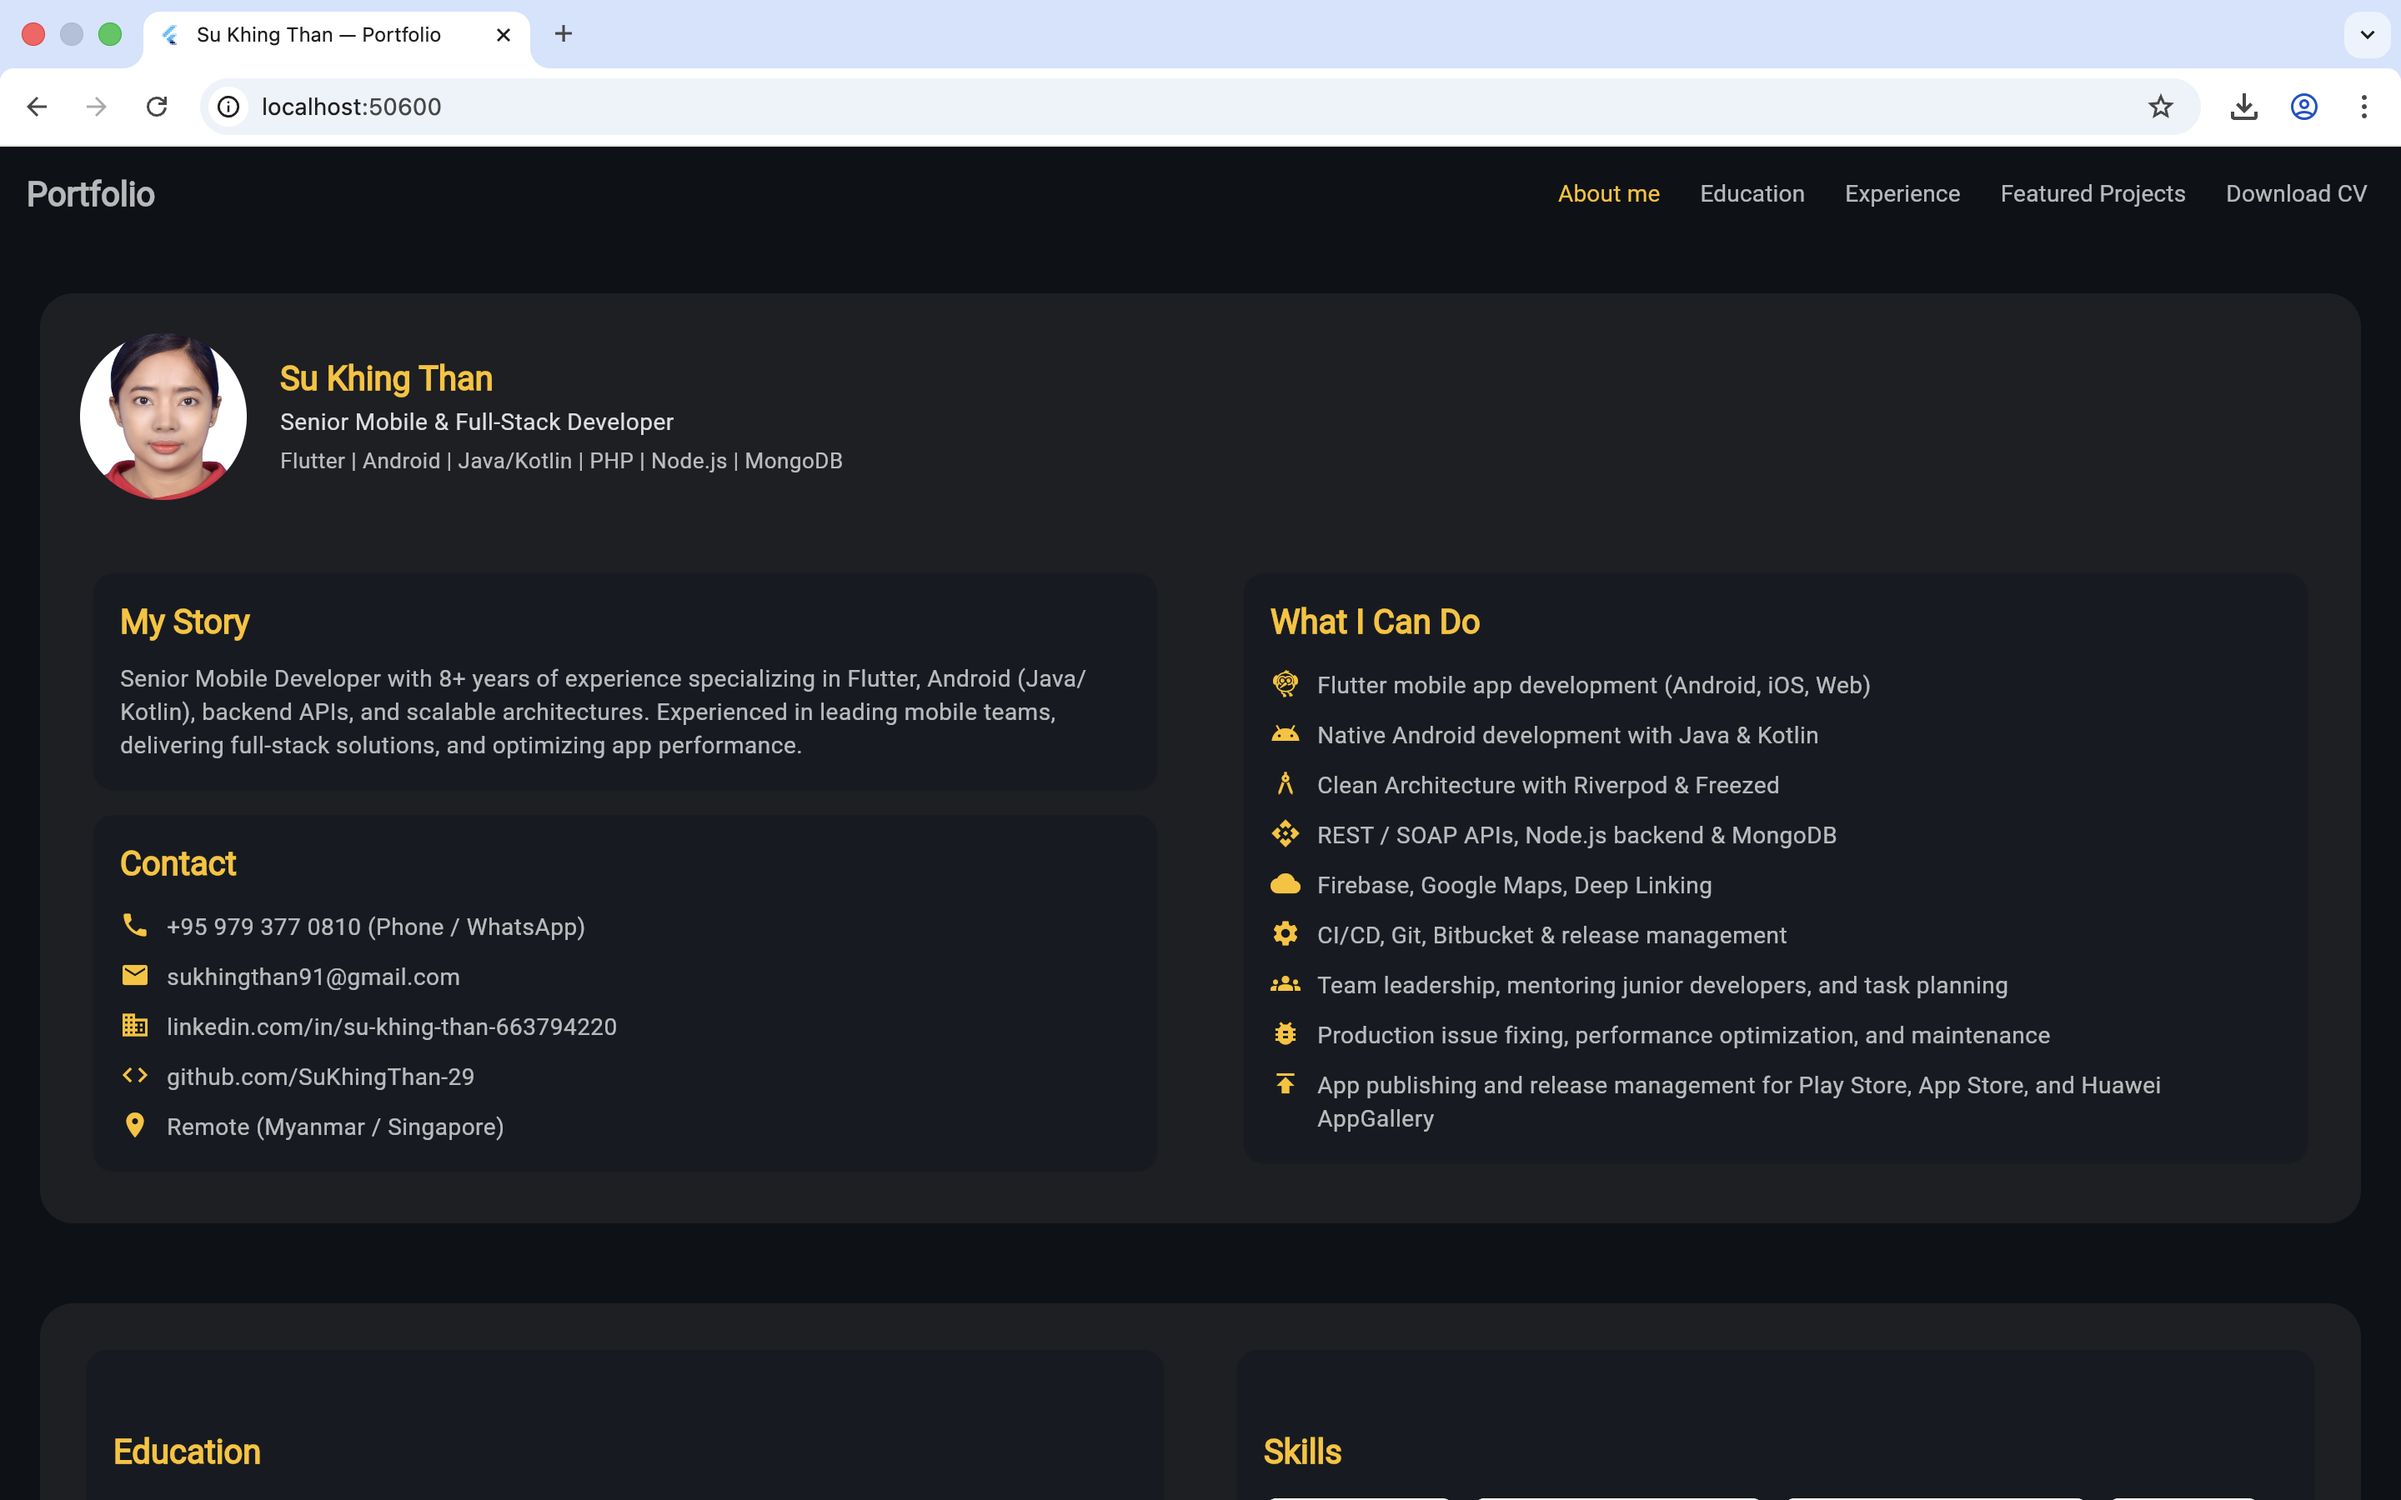
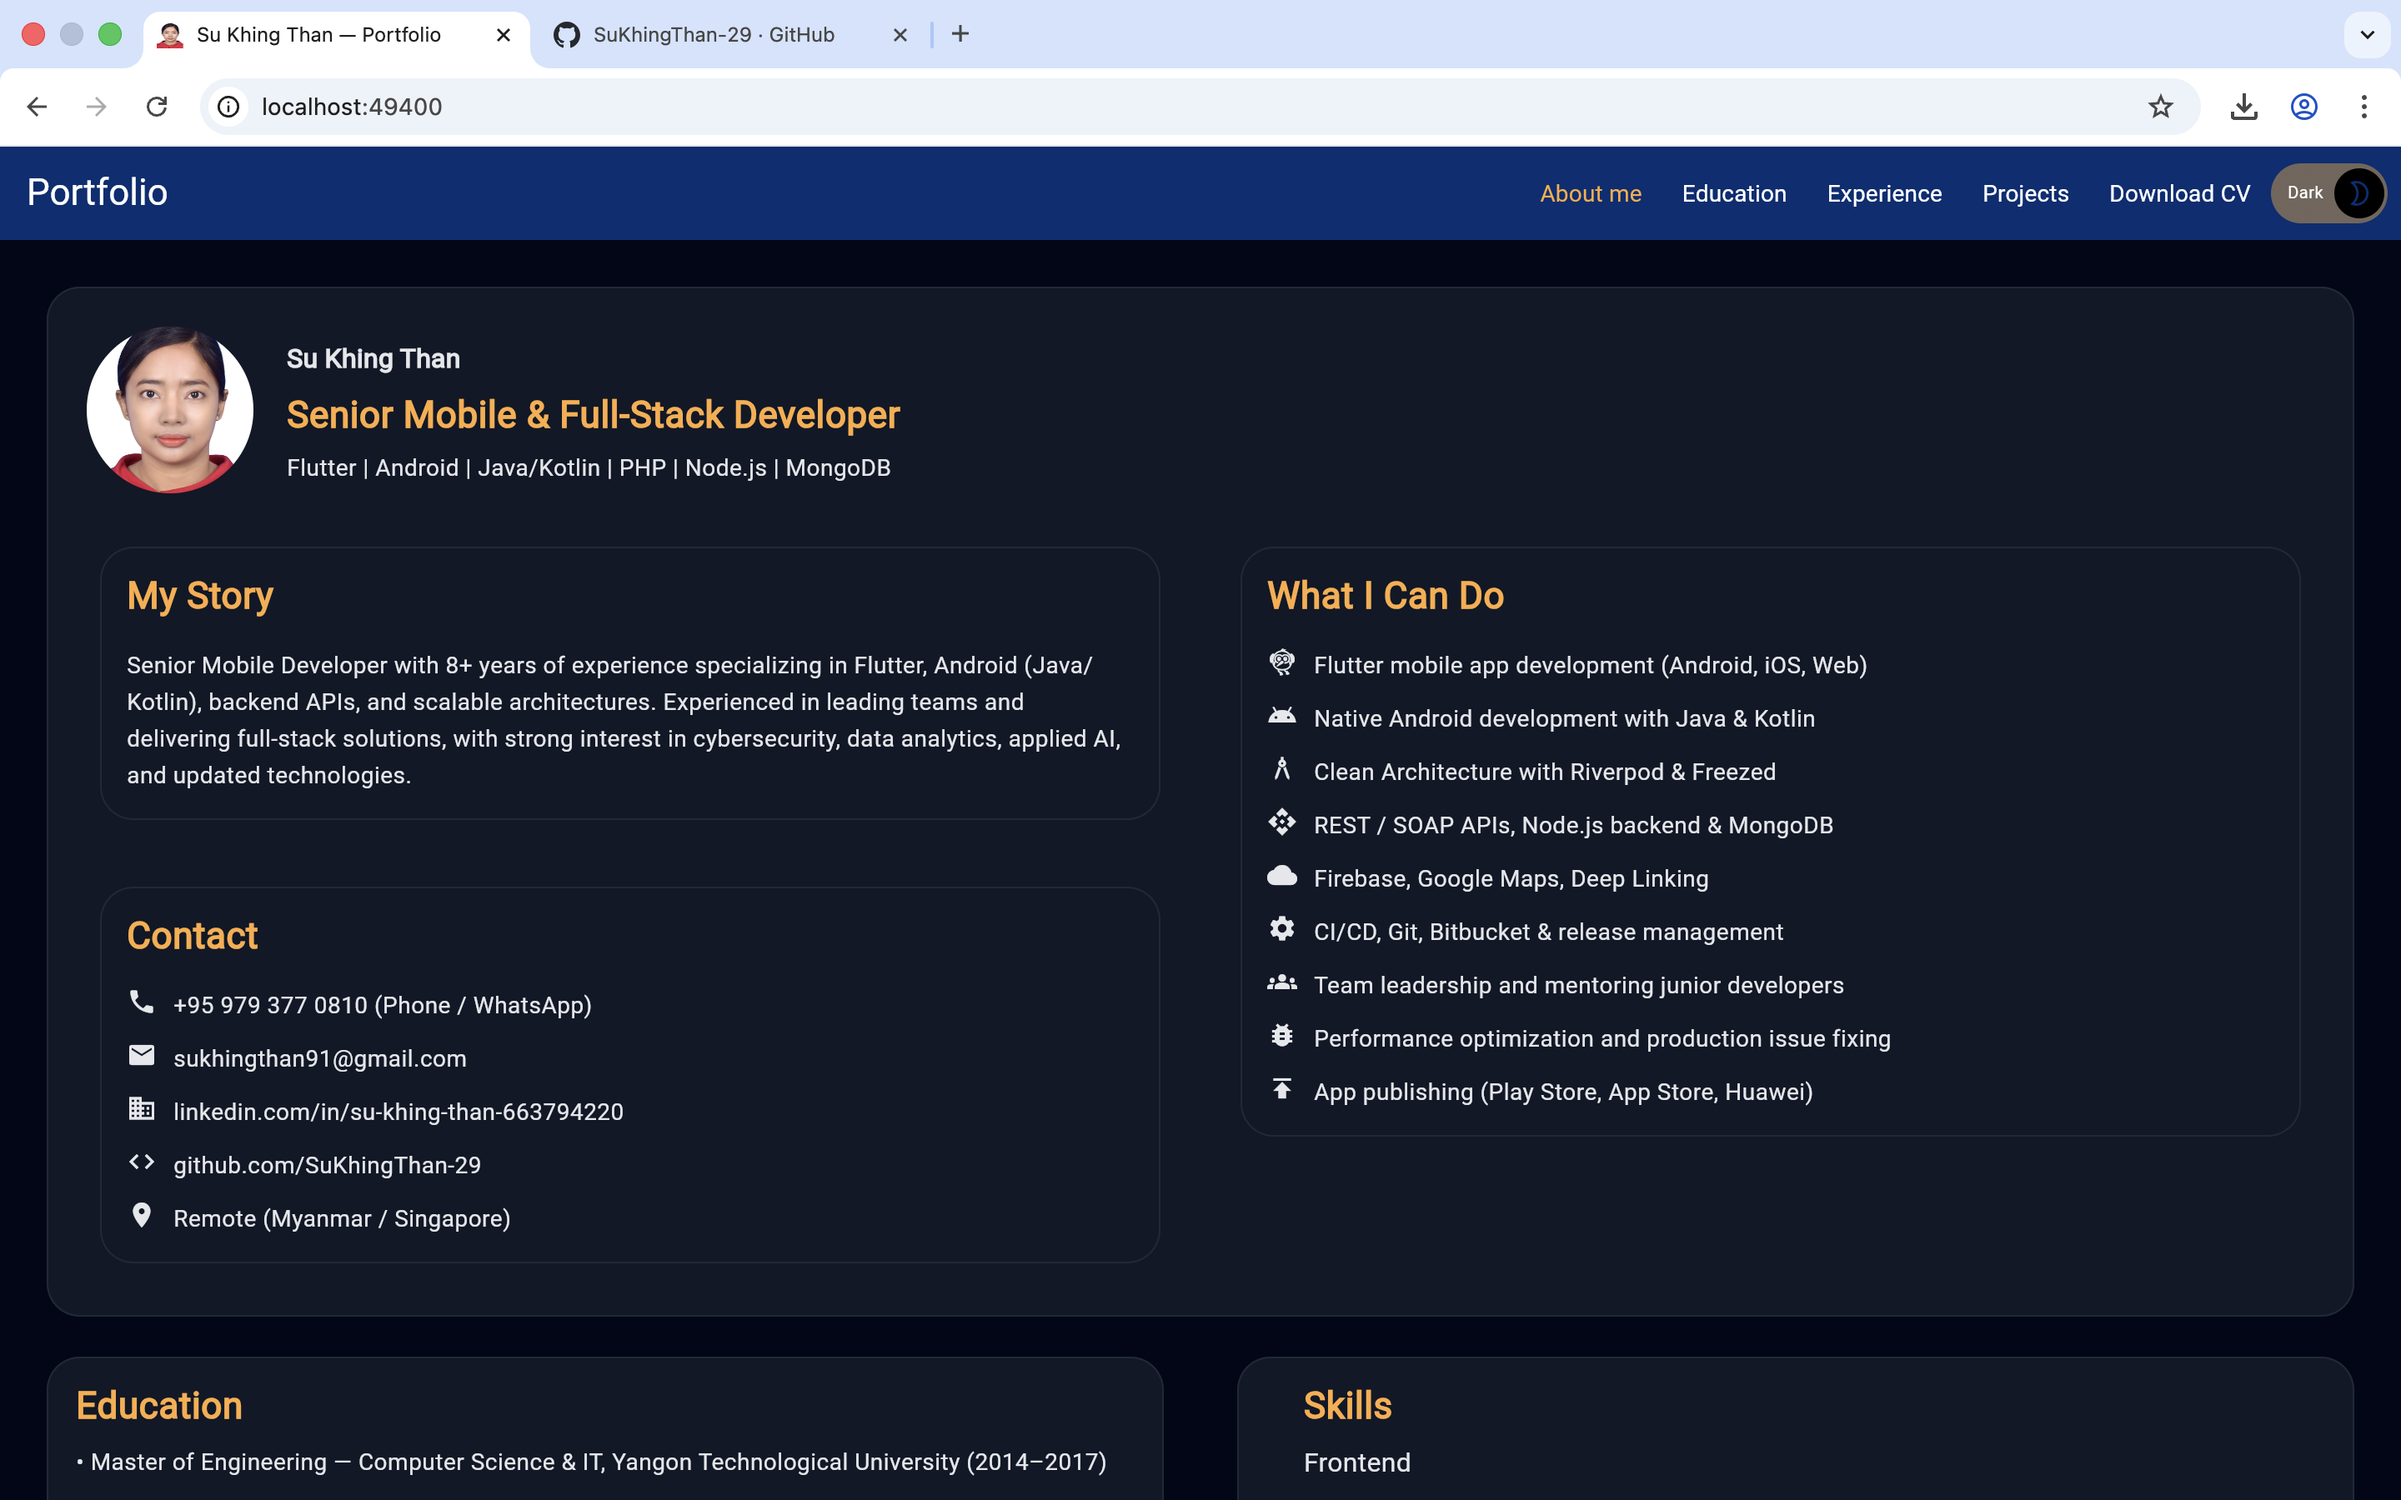
upgrade mobile view

diff --git a/lib/src/features/general/presentation/widgets/end_drawer.dart b/lib/src/features/general/presentation/widgets/end_drawer.dart
@@ -1,20 +1,55 @@
 import 'package:flutter/material.dart';
 import 'package:hooks_riverpod/hooks_riverpod.dart';
+import 'package:sukhingthan_portfolio/src/theme/text_styles.dart';
 import '../../../../common/constants/sizes.dart';
 import '../../../../common/widgets/animated_fade_slide.dart';
+import '../../../../common/widgets/dart_mode_switch.dart';
 import '../../../../common/widgets/responsive.dart';
 import '../../../../common/widgets/selection_area.dart';
 import '../../../../providers/section_provider.dart';
 import 'drawer_button.dart';
+import 'dart:html' as html;
 
 class EndDrawer extends ConsumerWidget {
   const EndDrawer({super.key});
+
+  void _confirmAndDownloadCV(BuildContext context) {
+    showDialog(
+      context: context,
+      builder: (context) => AlertDialog(
+        title: const Text('Download CV'),
+        content: const Text('Do you want to download my CV from Google Drive?'),
+        actions: [
+          TextButton(
+            onPressed: () => Navigator.pop(context),
+            child: const Text('Cancel'),
+          ),
+          ElevatedButton(
+            onPressed: () {
+              Navigator.pop(context);
+              _downloadFromDrive();
+            },
+            child: const Text('Download'),
+          ),
+        ],
+      ),
+    );
+  }
+
+  final _cvDownloadUrl =
+      'https://drive.google.com/uc?export=download&id=1lo7AWZAduN2d6Uti6WZQp8X1ikouJQpv';
+
+  void _downloadFromDrive() {
+    html.AnchorElement(href: _cvDownloadUrl)
+      ..target = '_blank'
+      ..click();
+  }
 
   @override
   Widget build(BuildContext context, WidgetRef ref) {
     if (Responsive.isDesktop(context)) return const SizedBox.shrink();
     return Drawer(
-     // backgroundColor: Theme.of(context).colorScheme.primary,
+      backgroundColor: Theme.of(context).appBarTheme.backgroundColor,
       child: Column(
         children: [
           Align(
@@ -23,14 +58,11 @@ class EndDrawer extends ConsumerWidget {
               padding: const EdgeInsets.only(top: 8),
               child: IconButton(
                 onPressed: () => Navigator.of(context).pop(),
-                icon: const Icon(Icons.close),
+                icon: const Icon(Icons.close, color: Colors.white54),
               ),
             ),
           ),
-          Divider(
-            height: 8,
-            color: Theme.of(context).colorScheme.inversePrimary,
-          ),
+          Divider(height: 8, color: Colors.white54),
           Expanded(
             child: MySelectionArea(
               mouseCursor: WidgetStateMouseCursor.clickable,
@@ -88,6 +120,35 @@ class EndDrawer extends ConsumerWidget {
                           ),
                         ),
                         gapH40,
+                        AnimatedFadeSlide(
+                          offset: const Offset(96, 0),
+                          duration: const Duration(milliseconds: 375),
+                          child: InkWell(
+                            child: Row(
+                              mainAxisAlignment: MainAxisAlignment.start,
+                              children: [
+                                Text(
+                                  "Download CV",
+                                  style: context.subTitle.copyWith(
+                                    fontWeight: FontWeight.normal,
+                                  ),
+                                ),
+                                gapW8,
+                                Icon(
+                                  Icons.download,
+                                  size: 18,
+                                  color: Theme.of(context).colorScheme.onSurface,
+                                ),
+                              ],
+                            ),
+                            onTap: () {
+                              Navigator.of(context).pop();
+                              _confirmAndDownloadCV(context);
+                            },
+                          ),
+                        ),
+                        gapH40,
+                        DarkModeSwitch(),
                       ],
                     ),
                   ),

diff --git a/lib/src/features/general/presentation/general_section.dart b/lib/src/features/general/presentation/general_section.dart
@@ -1,21 +1,12 @@
 import 'package:flutter/material.dart';
 import 'package:hooks_riverpod/hooks_riverpod.dart';
 import 'package:sukhingthan_portfolio/src/common/widgets/responsive.dart';
-import 'package:sukhingthan_portfolio/src/theme/text_styles.dart';
-import '../../../common/widgets/dart_mode_switch.dart';
 import '../../../providers/scroll_provider.dart';
 import '../../../providers/section_provider.dart';
 import 'widgets/end_drawer.dart';
 import 'widgets/general_content.dart';
-import 'widgets/mobile_nav_drawer.dart';
 import 'widgets/safe_area.dart';
 import 'widgets/top_nav_bar.dart';
-import '../../personal_info/presentation/personal_info_section.dart';
-import '../../experience/presentation/experience_section.dart';
-import '../../project/presentation/project_section.dart';
-import '../../skill/presentation/skill_section.dart';
-import '../../education/presentation/education_section.dart';
-
 class GeneralSection extends ConsumerStatefulWidget {
   const GeneralSection({super.key});
 
@@ -75,21 +66,10 @@ class _GeneralSectionState extends ConsumerState<GeneralSection> {
 
   @override
   Widget build(BuildContext context) {
-    //   return Scaffold(
-    //     appBar: Responsive.isDesktop(context)
-    //         ? const TopNavBar()
-    //         : AppBar(title: const Text('Portfolio')),
-    //    // actions: [DarkModeSwitch()],),
-    //     drawer: Responsive.isDesktop(context)?null:const MySafeArea(
-    //       child: EndDrawer(),
-    //     ),
-    //     body: const GeneralContent(),
-    //   );
-    // }
     return Scaffold(
       appBar: Responsive.isDesktop(context)
           ? null
-          : AppBar(title: const Text('Portfolio')),
+          : AppBar(title: const Text('Portfolio',style: TextStyle(color: Colors.white,))),
       drawer: Responsive.isDesktop(context)?null:MySafeArea(child: EndDrawer()),
       body: Column(
         children: [

diff --git a/lib/src/features/general/presentation/widgets/top_nav_bar.dart b/lib/src/features/general/presentation/widgets/top_nav_bar.dart
@@ -16,14 +16,7 @@ class TopNavBar extends ConsumerWidget implements PreferredSizeWidget {
   @override
   Widget build(BuildContext context, WidgetRef ref) {
     final active = ref.watch(activeSectionProvider);
-    void downloadCV() {
-      final url = 'assets/cv/Su_Khing_Than_CV.pdf';
-     html.AnchorElement(href: url)
-        ..setAttribute('download', 'Su_Khing_Than_CV.pdf')
-        ..click();
-    }
     Widget navItem({required String id,required String label, GlobalKey? key,VoidCallback? onTap}) {
-      final scheme = Theme.of(context).colorScheme;
 
       final activeColor = context.activeColor; // gold color
       final inactiveColor = context.inActiveColor;
@@ -51,7 +44,7 @@ class TopNavBar extends ConsumerWidget implements PreferredSizeWidget {
     return AppBar(
       backgroundColor: Theme.of(context).appBarTheme.backgroundColor,
       elevation: 0,
-      title:  Text('Portfolio',style: TextStyle(color: Colors.white54),),
+      title:  Text('Portfolio',style: TextStyle(color: Colors.white),),
       centerTitle: false,
       actions: [
         navItem(id: 'about',label:  'About me', key: ref.watch(aboutSectionKeyProvider)),

diff --git a/lib/src/features/general/presentation/widgets/drawer_button.dart b/lib/src/features/general/presentation/widgets/drawer_button.dart
@@ -1,16 +1,19 @@
 import 'package:flutter/material.dart';
 import 'package:flutter_hooks/flutter_hooks.dart';
 import 'package:hooks_riverpod/hooks_riverpod.dart';
+import 'package:sukhingthan_portfolio/src/theme/text_styles.dart';
 
 class MyDrawerButton extends StatefulHookConsumerWidget {
   const MyDrawerButton({
     super.key,
     required this.title,
     required this.sectionKey,
+    this.onTap,
   });
 
   final String title;
   final GlobalKey sectionKey;
+  final VoidCallback? onTap;
 
   @override
   ConsumerState<MyDrawerButton> createState() => _MyDrawerButtonState();
@@ -56,7 +59,7 @@ class _MyDrawerButtonState extends ConsumerState<MyDrawerButton> {
           onTap: () => _onTap(context),
           child: Text(
             widget.title,
-            style: TextStyle(color: colorAnimation),
+            style: context.subTitle.copyWith(fontWeight: FontWeight.normal),
           ),
         ),
       ),

diff --git a/lib/src/features/project/presentation/project_section.dart b/lib/src/features/project/presentation/project_section.dart
@@ -29,7 +29,7 @@ class _ProjectSectionState extends State<ProjectSection>
     Project(
       name: 'Little Tots Cards',
       description: 'Children learning app with cards, sound, and animations.',
-      url: 'https://github.com/AladdineDev/learnflow_backoffice',
+      url: 'https://github.com/SuKhingThan-29/little_tots_cards',
       image: 'assets/projects/little_tots_cards.jpg',
     ),
   ];

diff --git a/lib/src/common/widgets/technology_chip.dart b/lib/src/common/widgets/technology_chip.dart
@@ -14,7 +14,7 @@ class TechnologyChip extends StatelessWidget {
       padding: const EdgeInsets.symmetric(horizontal: 8),
       clipBehavior: Clip.hardEdge,
       decoration: BoxDecoration(
-        color: Theme.of(context).colorScheme.secondary,
+        color: Theme.of(context).colorScheme.primary,
         borderRadius: const BorderRadius.all(Radius.circular(32)),
       ),
       height: 32,

diff --git a/lib/src/theme/app_theme.dart b/lib/src/theme/app_theme.dart
@@ -16,7 +16,7 @@ class AppTheme {
   static const _darkSurface = Color(0xFF111827);
 
   static const _darkPrimary = Color(0xFF002E73);
-  static const _darkSecondary = Color(0xFF1E293B);
+  static const _darkSecondary = Colors.orangeAccent;
 
   static const _darkTextPrimary = Color(0xFFE5E7EB);
   static const _darkOutline = Color(0xFF1F2937);

diff --git a/lib/src/features/general/presentation/widgets/general_content.dart b/lib/src/features/general/presentation/widgets/general_content.dart
@@ -13,7 +13,7 @@ import '../mobile/mobile_layout.dart';
 import '../tablet/tablet_layout.dart';
 
 class GeneralContent extends ConsumerWidget {
-  const GeneralContent();
+  const GeneralContent({super.key});
 
   @override
   Widget build(BuildContext context, WidgetRef ref) {

diff --git a/lib/src/theme/text_styles.dart b/lib/src/theme/text_styles.dart
@@ -7,7 +7,7 @@ extension AppTextStyles on BuildContext {
 
     return t.titleLarge!.copyWith(
       fontWeight: FontWeight.w700,
-      color: c.onSurface,
+      color: c.secondary,
       letterSpacing: 0.3,
     );
   }
